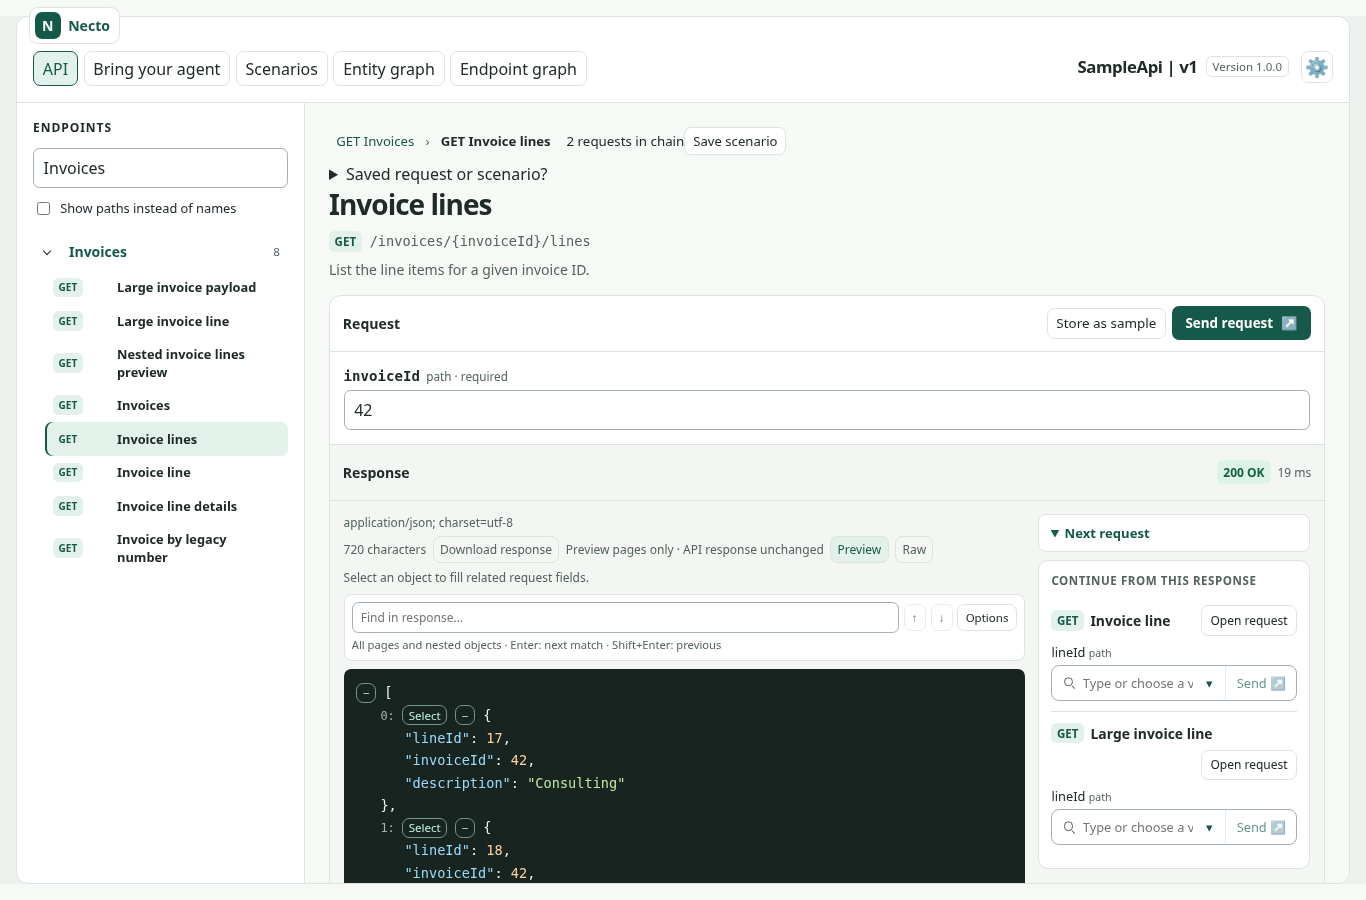
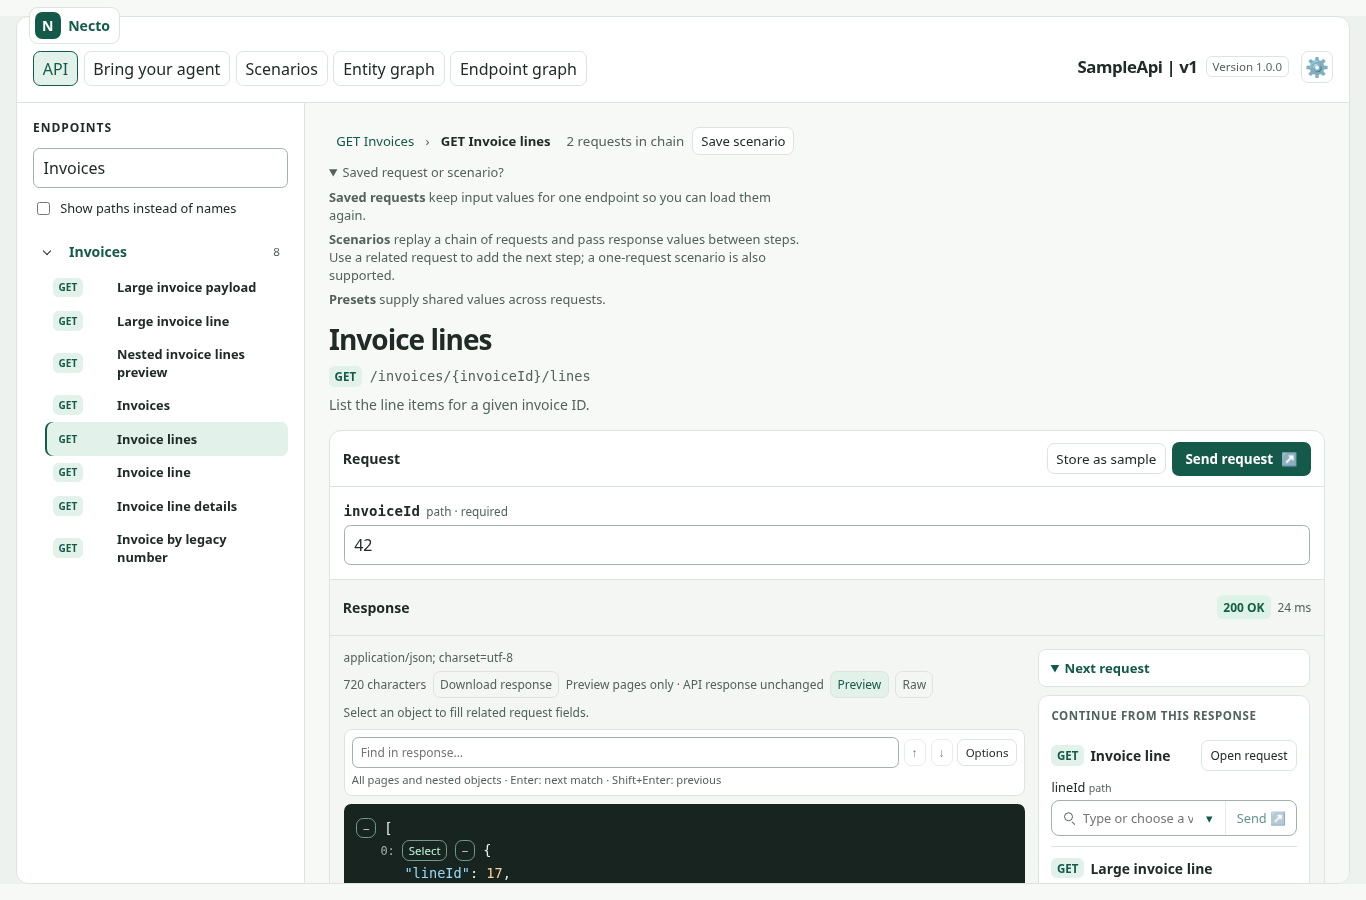
Style the saving guide and show its expanded preview

diff --git a/Necto.UI/src/App.vue b/Necto.UI/src/App.vue
@@ -801,6 +801,12 @@ function removeScenario(id) {
 </template>
 
 <style>
+.chain-save-actions { display: flex; flex-wrap: wrap; align-items: center; gap: .5rem; }
+.chain-save-actions small { color: var(--muted); }
+.saving-guide { margin-block: .5rem .75rem; font-size: .8rem; color: var(--muted); }
+.saving-guide summary { cursor: pointer; width: fit-content; }
+.saving-guide p { margin: .4rem 0; max-width: 65ch; }
+
 :root {
   color-scheme: light;
   font-family: system-ui, sans-serif;
